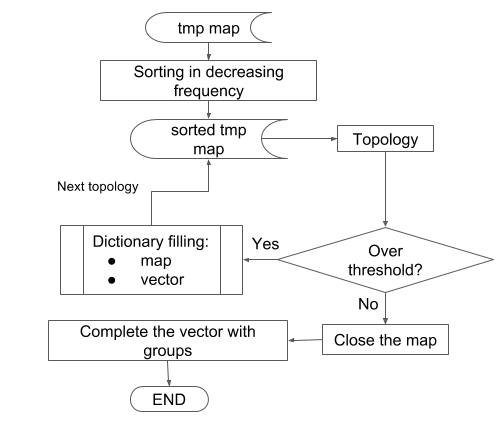
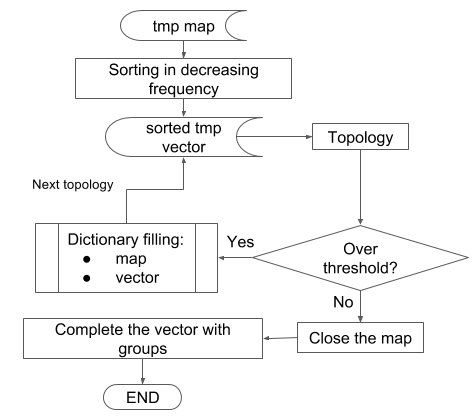
Esempio per Gloria

diff --git a/Chapter4/chapter4.tex b/Chapter4/chapter4.tex
@@ -6,7 +6,7 @@ As said in the last chapter, the sensors of ITS-Upgrade are characterized by a b
 %
 \begin{figure}
   \centering
-  \includegraphics[scale=0.6]{figures/cluster.png}
+  \includegraphics[scale=0.55]{figures/cluster.png}
   \caption{Example of different clusters on the same sensor. All the clusters have different positions, but two of them have the same shape.}
   \label{fig:clusters}
 \end{figure}
@@ -103,11 +103,13 @@ Summing up, the class MinimTopology has two data members:
 \end{enumerate}
 %
 \section{Reduction of the Entries of the Dictionary: Grouping}
+\label{sec:group}
 The second requirement for the dictionary concerns the number of entries. As said in section \ref{sec:huff}, the Huffman becomes inefficient when the number of different elements (in this case the number of topologies within the dictionary) is high. For this reason there is the necessity to limit the number of entries of the dictionary to at most O(10$^3$). This objective is achieved grouping rare topologies under a common reference, called \textit{GroupID}. The groups must be formed to gather rare topologies with similar characteristics, i.e. with similar errors related to the estimated impact position of the particle that generated the cluster. The grouping is necessary a lossy operation, since the information about the pattern of pixels, and therefore about the position of the impact point of the single rare topology, is lost in favour of average quantities. However this loss is bearable, since it concerns rare topologies and therefore it interests a very small fraction of the data.\\
 The chosen grouping criterium concerns the dimensions of the bounding box: it is based on the assumption that topologies with similar dimensions have similar uncertainties related to the impact point position. As it will be seen later, for each common topology the uncertainty on the impact point position is get from the distribution of the impact points themselves (or rather their first reconstruction) with respect to the COG position. In the case of groups of rare topologies this method is not applicable, since in different topologies the position of the COG within the bounding box can be extremely different and the distribution of the impact points (their first reconstruction) can be different too. Since it is not possible to rely on these distributions, the error is evaluated with the most pessimistic method: the position of the impact point is assumed to be equally probable in the whole area of the bounding box. The error associated to the position of the COG is therefore that of a uniform distribution. In particular, a uniform distribution in the range of x(z) dimension of the bounding box:
 \begin{equation}
  \sigma_x \; = \; \frac{N_{rows} \cdot d_x}{\sqrt{12}} \ \ \ \ \  \sigma_z \; = \; \frac{N_{columns} \cdot d_z}{\sqrt{12}}
 \end{equation}
+where $d_x$ and $d_y$ are respectively the pitch of the pixel along x and z directions.
 Considering a uniform distribution maybe the error is a bit overestimated, but it must be considered that this approximation involves rare topologies and hence a very small fraction of the data.\\
 The grouping is based on a two-dimensional binning: a rare topology is assigned to a particular group according to its number of columns and rows. An example of grouping can be seen in Figure \ref{fig:gruppi}. The two rare topologies in the figure have very different patterns, but they have have a similar number of rows and columns (in this case exactly the same) and are mapped to the same group. The position of the COG in the bounding box is very different, but after the grouping this information is lost. What remains is the position of the pixel containing the COG, which is the reference pixel of the cluster, and its centre is considered as the best estimate of the impact point of the particle. The error associated to this quantity is that of a uniform distribution, as just described. In this way, with a loss of detail on a small fraction of the total data, it is possible to reduce the number of entries of the dictionary.
 %
@@ -119,6 +121,7 @@ The grouping is based on a two-dimensional binning: a rare topology is assigned 
 \end{figure}
 %
 \section{Class Dictionary}
+\label{sec:dic}
 In this section the structure of the class \textit{Dictionary}, the central class of the developed software, will be described. In order to understand the reasons behind the design of the class, it is necessary to analyse the lookup mechanism, represented in Figure \ref{fig:lucap}. During the data acquisition, it is necessary to associate to each cluster the corresponding entry within the dictionary in real time. From the cluster in its row data format, using the class \textit{MinimTopology} an eight-byte hashcode is generated from the pattern in string format. The hashcode uniquely identifies a specific topology, common or rare.
 Common topologies must have their own entry in the dictionary, while rare topologies are referred to an entry that corresponds to a group of rare topologies with similar characteristics (previous section).
 Therefore it must be possible to discern common topologies from rare topologies so that, when a hashcode is generated, if it belongs to a common topology the corresponding key in the dictionary is found, otherwise the group membership is directly computed and the key corresponding to the group is given. Thus in the dictionary two elements are needed:
@@ -144,7 +147,7 @@ The vector contains one element for each group and the corresponding position is
 \end{enumerate}
 As far as the first point is concerned, there is a difference between common topologies and groups of rare topologies. In every case the reference pixel is defined as the pixel containing the COG, therefore this information is the distance between the COG and the centre of the pixel in which it lies. For common topologies this quantity allows to have a better estimate of the position of the impact point, since in many cases the COG does not coincide with the centre of a pixel. This kind of information is not available for groups of rare topologies, since the distance between the COG and the centre of the pixel can be different case-by-case, and hence it must be set to zero, being shared among all the topologies within the group. However, considering that the uncertainties related to the position of the impact point are considered in the worst case scenario, i.e. those of a uniform distribution, and that this approximation concerns rare topologies, this partial loss of information does not affect significantly the precision of the data.\\
 The uncertainties on the impact point position, along x and z directions, for common topologies are determined directly from the data. They are the standard deviations of the population of residuals (distance between the hit-point and the centre of gravity) respectively along x and z directions. It can sound strange to use the distribution of the distances between the COG and the hit-point positions, since the latter is the quantity that has to be determined. In fact, a rough estimation of the hit-point position is given during the first track reconstruction, which occurs online: this quantity can be used to determine the distribution of the residuals to have an estimation of the distance between the two points. A further description about the determination of the parameters of the distribution will be given later.\\
-Finally, there is the information related to the cumulative frequency. Inside the vector the common topologies are sorted in descending order with respect of frequency. After the last common topology, there are the entries corresponding to groups of rare topologies. For each entry the cumulative frequency is the sum of the frequencies of all the entries from the first to the one considered. The use of these quantity will be clear in section \ref{fast}.
+Finally, there is the information related to the cumulative frequency. Inside the vector the common topologies are sorted in descending order with respect of frequency. After the last common topology, there are the entries corresponding to groups of rare topologies. For each entry the cumulative frequency is the sum of the frequencies of all the entries from the first to the one considered. The use of these quantity will be clear in section \ref{sec:fast}.
 %
 \begin{table}
 \centering
@@ -158,18 +161,19 @@ Finally, there is the information related to the cumulative frequency. Inside th
   2 & d$_{x2}$ & d$_{z2}$ & $\sigma_{x2}$ & $\sigma_{z2}$ & f$_0$ + f$_1$ + f$_2$\\
   ... & ... & ... & ... & .... & ... \\
   k & d$_{xk}$ & d$_{zk}$ & $\sigma_{xk}$ & $\sigma_{zk}$ & $\sum_{i=0}^{k} f_i$ \\
-  k + 1 & d$_{x(k+1)}$ & d$_{z(k+1)}$ & $\sigma_{x(k+1)}$ & $\sigma_{z(k+1)}$ & $\sum_{i=0}^{k+1} f_i$\\
-  k + 2 & d$_{x(k+2)}$ & d$_{z(k+2)}$ & $\sigma_{x(k+2)}$ & $\sigma_{z(k+2)}$ & $\sum_{i=0}^{k+2} f_i$\\
+  k + 1 & 0 & 0 & $\sigma_{x(k+1)}$ & $\sigma_{z(k+1)}$ & $\sum_{i=0}^{k+1} f_i$\\
+  k + 2 & 0 & 0 & $\sigma_{x(k+2)}$ & $\sigma_{z(k+2)}$ & $\sum_{i=0}^{k+2} f_i$\\
   ... & ... & ... & ... & ... & ...\\
-  k + l & d$_{x(k+l)}$ & d$_{z(k+l)}$ & $\sigma_{x(k+l)}$ & $\sigma_{z(k+l)}$ & $\sum_{i=0}^{k+l} f_i$\\
+  k + l & 0 & 0 & $\sigma_{x(k+l)}$ & $\sigma_{z(k+l)}$ & $\sum_{i=0}^{k+l} f_i$\\
   \hline
  \end{tabular}
  \caption{Example of a vector in a dictionary with $k$ common topologies and $l$ groups of rare topologies.}
  \label{tab:vec}
 \end{table}
 %
-\section{Map}
-The second element of the dictionary is a map, which associates the hashcodes of common topologies to their corresponding groupID. A map is an object of the C++ standard template library, in particular it is an associative array, i.e. a container in which the elements are stored as a combination of a \textit{key value} and \textit{mapped value}. In this case the hashcode is the key value, unique for each topology, while the groupID is the mapped value. Each pair in the dictionary is uniquely identified by its key value and all the pairs are sorted in descending order with respect to key value itself. A map is a balanced binary search tree, a data structure optimized for the lookup, the addition and the removal of an item. In particular, the complexity of both the insertion and the lookup is $O(\log(n))$, that means that the average number of operations needed for the insertion of a new item or for looking up a key in the structure scales with the logarithm of the number of entries. These characteristics make the operation of lookup fast and this is exactly what is needed to match online a topology with the corresponding entry in the dictionary. Moreover, there is another property that makes a map appreciable, i.e. the \textit{insert} method. This method is used for the insertion of an element, which is uniquely identified by its key: one key cannot appear twice in the map. If one tries to add to the map an element identified by a key that is still not present, this is added in a certain position according to its key value. Otherwise, if the key has already been inserted in the map, the insert method returns an iterator to the element identified by that particular key value, which is therefore easily accessible and prone to be modified. This feature is extremely useful during the construction of the dictionary and represents a further reason for the use of a map.\\
+\subsection{Map}
+\label{sec:map}
+The second element of the dictionary is a map, which associates the hashcodes of common topologies to their corresponding groupID. A map is an object of the C++ standard template library, in particular it is an associative array, i.e. a container in which the elements are stored as a combination of a \textit{key value} and \textit{mapped value}\cite{map}. In this case the hashcode is the key value, unique for each topology, while the groupID is the mapped value. Each pair in the dictionary is uniquely identified by its key value and all the pairs are sorted in descending order with respect to key value itself. A map is a balanced binary search tree, a data structure optimized for the lookup, the addition and the removal of an item. In particular, the complexity of both the insertion and the lookup is $O(\log(n))$, that means that the average number of operations needed for the insertion of a new item or for looking up a key in the structure scales with the logarithm of the number of entries. These characteristics make the operation of lookup fast and this is exactly what is needed to match online a topology with the corresponding entry in the dictionary. Moreover, there is another property that makes a map appreciable, i.e. the \textit{insert} method. This method is used for the insertion of an element, which is uniquely identified by its key: one key cannot appear twice in the map. If one tries to add to the map an element identified by a key that is still not present, this is added in a certain position according to its key value. Otherwise, if the key has already been inserted in the map, the insert method returns an iterator to the element identified by that particular key value, which is therefore easily accessible and prone to be modified. This feature is extremely useful during the construction of the dictionary and represents a further reason for the use of a map.\\
 Summing up, in the dictionary the map is used to have a fast match between the hashcode of a common topology and the corresponding groupID.
 %
 \begin{table}
@@ -192,6 +196,32 @@ Summing up, in the dictionary the map is used to have a fast match between the h
 \end{table}
 %
 \section{Class BuildDictionary}
+The class \textit{BuildDictionary} is used for the construction of the dictionary from the data. It is necessary to make few important considerations about this point. First, it is necessary to devote some data for building a dictionary of topologies: these data will not be available for physics measurements, but their sacrifice is necessary to save storage space for the upcoming events. Since Pb-Pb collisions are extremely precious for the ALICE experiment, pp collisions are likely to be used. Second, but not for importance, the population of topologies is strongly dependent on the parameters of the detector, like, for example, the threshold. Every time one parameter is changed a new dictionary must be built, since a completely different population of topologies is obtained.\\
+The construction of the dictionary is articulated in two steps:
+\begin{enumerate}
+ \item inclusion of the information of new topologies;
+ \item elaboration and finalisation of the dictionary;
+\end{enumerate}
+These two steps will be separately described in the next sections, focusing on the method and the attributes necessary for the execution of the process.
+\subsection{Inclusion of the Information of New Topologies}
+In this step the data necessary for the construction of the dictionary are collected. There is the necessity of a temporary structure in which it is possible to store the information about the already met topologies: this structure is a map, where the key values are the hashes of the topologies.  A map has been chosen for the insertion properties described in section \ref{sec:map}: when a new topology is processed, the related eight-byte hashcode is generated. If it is not present yet, a new item corresponding to the topology is added to the temporary structure. If the topology has already been met, then an iterator to the corresponding element of the map is returned and the record can be easily updated with the new information. In the temporary map the key value is the hash, while the mapped value is a structure which contains all the important quantities of the topology:
+\begin{itemize}
+ \item number of occurrences;
+ \item dimensions of the bounding box, x and z directions;
+ \item distance between the centre of gravity and the centre of the pixel, along x and z directions;
+ \item mean value of the distribution of the residuals, x and z directions;
+ \item variance of the distribution of the residuals, x and z directions.
+\end{itemize}
+The insertion of a new element, or the update of an element already present, is performed by the method \textit{AccountTopology}. A scheme about the working principle of AccountTopology can be found in Figure \ref{fig:account}. This method takes as arguments the pattern of the cluster in string format and the residuals along x and z directions. Starting from the pattern in string format, it  generates the unique hashcode and then tries to insert the entry in the temporary map. In case of first insertion the record is created: its number of occurrences is set to 1 and the geometrical properties, such as the dimensions of the bounding box or the position of the COG, which are the same for all the clusters with the same topology, are set consequently. As far as the parameters of the residual distributions are concerned, the mean values are set to the value of the residual itself and the variance is set to zero, since it is the first element. In case of update, the process is a bit different. The geometrical properties do not need to be updated, being the same for all the clusters with the same topology. The number of occurrences is clearly incremented by one. The update of the parameters of the residual distributions is more tricky. Indeed, since this software must be able to be executed on machines on which ROOT is not installed, functionalities such as histograms are not available. Moreover the implementation of such a feature is out of discussion, since it would take quite much storage space and the insertion of an element would require a certain number of operations, that means computing time.
+Instead, both the mean values and the variances of the distributions are directly updated using the respective online algorithms:
+\begin{equation}
+ \overline{x}_{n + 1} \; = \; \frac{n \cdot \overline{x}_n + x}{n + 1}
+\end{equation}
+\begin{equation}
+ \sigma^2_{n + 1} \; = \; \frac{n \cdot \sigma^2_n + (x - \overline{x}_n)(x - \overline{x}_{n + 1})}{n + 1}
+\end{equation}
+In this way it is possible to obtain the parameters of distribution avoiding to store all the population. On the contrary, for each distribution is sufficient to store two float numbers, i.e. eight bytes each.\\
+This process of collection of new data continues until enough statistics is collected. Then, the dictionary can be elaborated and finalised.\\
 %
 \begin{figure}
   \centering
@@ -200,13 +230,20 @@ Summing up, in the dictionary the map is used to have a fast match between the h
   \label{fig:account}
 \end{figure}
 %
+\subsection{Elaboration and Finalisation of the dictionary}
+Once all the needed data have been collected, it is possible to start building the dictionary. It is first necessary to define the number of common topologies: this operation is done considering the frequencies of the topologies collected during the last step. Common topologies are those whose frequency is above the frequency threshold (the definition of the threshold will be discussed later in this section). In order to establish which topologies are common is therefore necessary to sort the elements in the temporary map in descending order of frequency. However, this operation cannot directly be done with the temporary map, since it is already ordered with respect to the key values, and a support data structure is needed. A vector is used for this purpose: each element of the vector is a pair, corresponding to a particular topology, where the first member is the frequency and the second is the hashcode. The elements of the vector are taken directly from the temporary map and then are sorted in descending order with respect to the frequency. In this way it forms a list of hashcodes, each corresponding to a particular topology among those collected in the previous step, sorted from the most to the least frequent. The order of the vector brings some benefits to analysis of the collected topologies and the consequent construction of the dictionary. Indeed, once the first element below the threshold is found, all the following ones are for sure rare topologies as well and therefore they belong to groups. A scheme about the processing of the data in the temporary map can be found in Figure \ref{fig:build}.
+Starting from the most frequent topology, when a common topology is precessed, its important information are stored in the dictionary, both in the map and in the vector. In the map the pair hashcode-groupID is inserted, remembering that a common topology is a group made of one only topology and that the groupID coincides with the position of the topology inside the vector member of the dictionary. Then, the important information about the groups are inserted in the vector of the dictionary: position of the COG with respect to the centre of the reference pixel, uncertainties in the impact point position, cumulative frequency. For all the common topologies this operation is repeated exactly in the same way. When the first topology below the frequency threshold is found, the map inside the dictionary is completed, since it concerns exclusively common topologies. At this point the vector must be filled with the information about the groups. The most of the needed quantities are known a priori: the position of the COG, which for groups is set to zero, and the error related to the impact position, which depends only on the dimensions of the bounding box. The cumulative frequency, instead, must be computed, summing the frequencies of all the topologies belonging to the same group. After this information is added to the vector, the dictionary is completed and can be stored in a binary file. In the next section the determination of the frequency threshold will be described.
+%
 \begin{figure}
   \centering
   \includegraphics[scale=0.6]{figures/build.png}
-  \caption{.}
+  \caption{Scheme of the elaboration and finalisation of the dictionary.}
   \label{fig:build}
 \end{figure}
 %
-
-\section{FastSimulation}
-\label{fast}
+\subsection{Setting of the Frequency Threshold}
+The frequency threshold can be set in three ways. The first method is the direct definition: the threshold is directly set to a particular value and all the topologies whose frequency is below that defined value are considered rare and therefore belong to groups. For example, if the threshold is set 10$^{-5}$, then all the topologies with a frequency below 10$^{-5}$ are inside groups. The second method is the cumulative definition: a threshold for the cumulative frequency of the common topology is set so that the least frequent common topology has a cumulative frequency below the defined threshold. For example, one assumes that the cumulative frequency threshold is set to 0.99999. It is important to remember that the topologies inside the vector are sorted in descending order of frequency. For each element of the vector, the frequency must be summed with those of all the previous elements. Once this value exceeds the cumulative threshold 0.99999, all the previous topologies are common, while the remaining ones are rare. Finally there is the definition of the number of common topologies: the number of common topologies is fixed and all the other ones are rare and hence inside groups.
+\section{Class LookUp}
+The class \textit{LookUp} is used during the data acquisition to match the topology of cluster data to the corresponding entry of the dictionary. Since it is used online, it must be as fast as possible. The lookup mechanism is shown in Figure \ref{fig:lucap} and has already been mentioned in section \ref{sec:dic}. However, in this section it can be described more in detail thanks to the knowledge of the structure of the class Dictionary. When a cluster is processed, from the topology the corresponding hashcode is generated. Then, it is looked up in the map of the dictionary, which relate the hashcodes of common topologies with their groupID, i.e. their position inside the vector member of the dictionary. This operation is performed using the find method of a map. In case the hashcode is found in the map, i.e. it belongs to a common topology, an iterator to the element is returned and therefore the corresponding groupID is given. Otherwise, if the hashcode is not found, i.e. it belongs to a rare topology, an iterator to the end of the map is returned. In this case the groupID must be directly computed by the dimensions of the bounding box of the topology, using the two-dimensional binning described in section \ref{sec:group}.
+\section{Class FastSimulation}
+The class FastSimulation uses the information about the cumulative frequency to simulate a population of topologies with the same frequency distribution of the data from which the dictionary has been generated. It is fast since it allows to pass directly from the hit to the topology avoiding to simulate the production of the signal inside the sensor. The working principle is extremely simple. A random number in the range [0; 1] is generated using the default random engine of the C++ standard template library, which is base based on the Mersenne twister algorithm for the generation of pseudorandom numbers \cite{mersenne}. Then 
